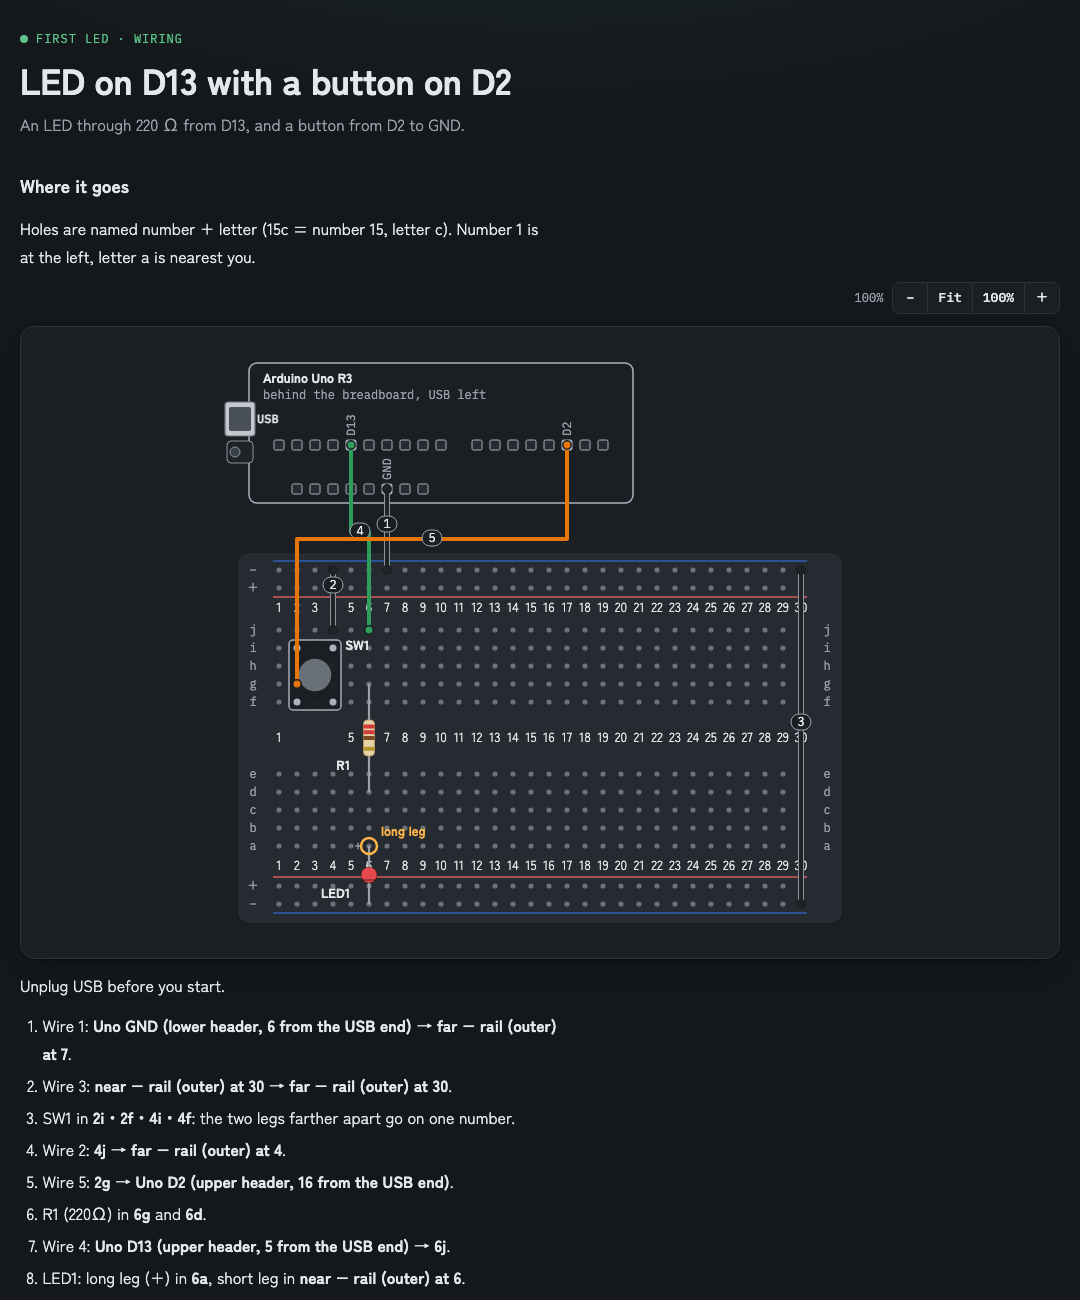
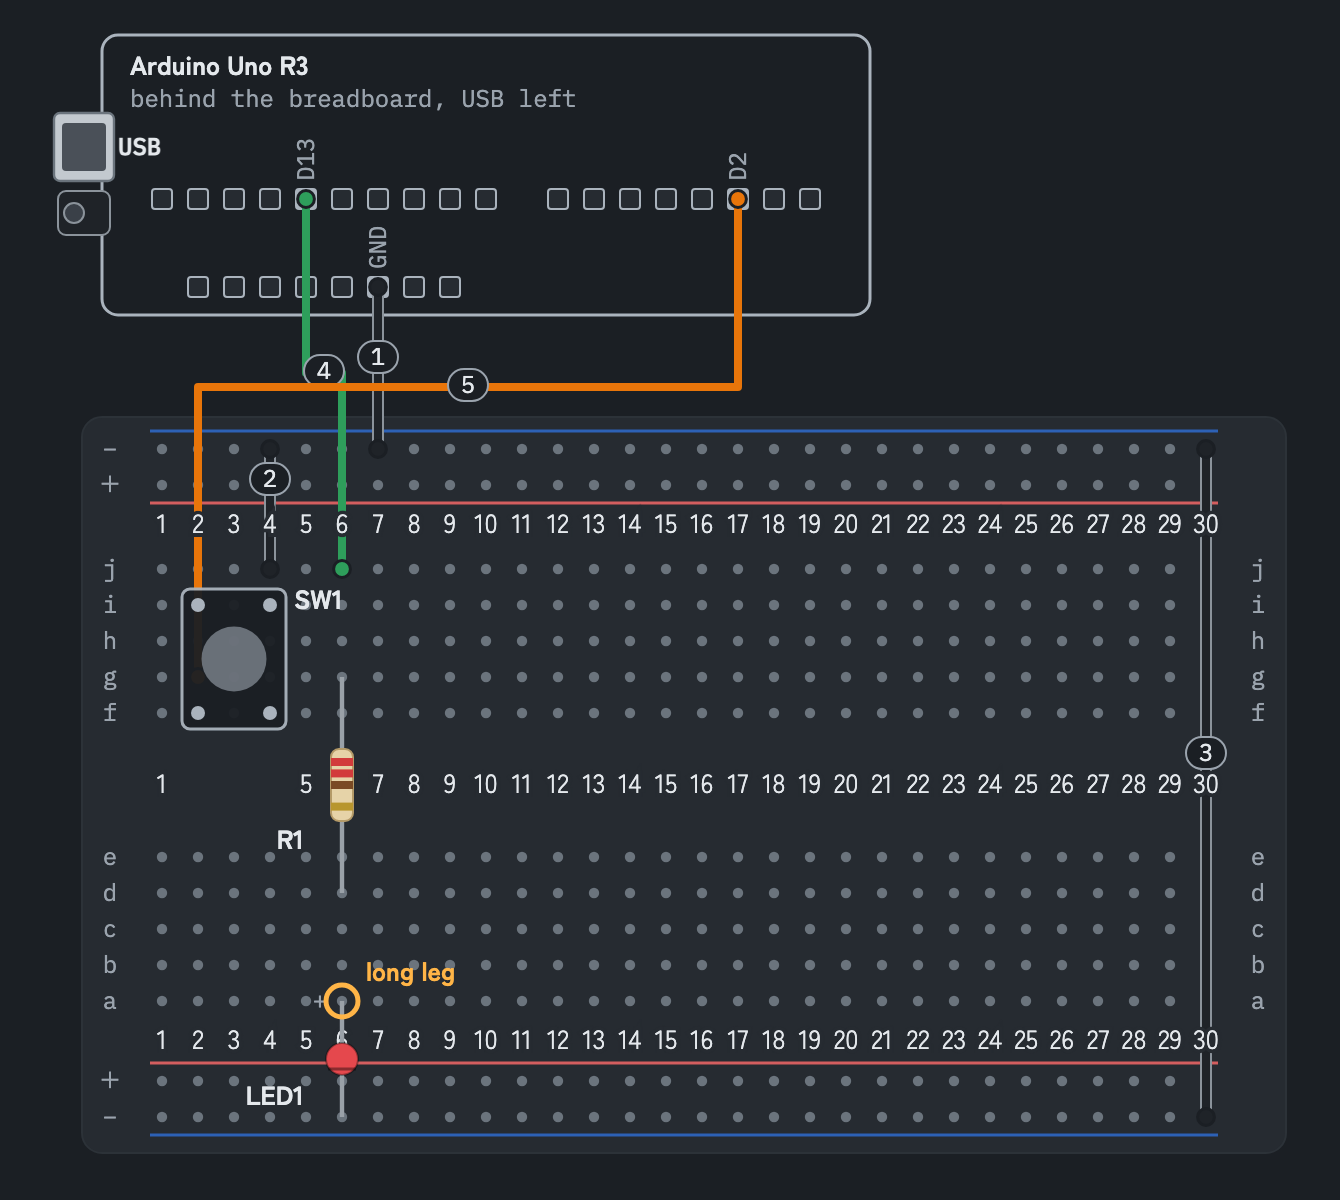
Keep hole numbers readable over wires; sharper README screenshots
Numbers are now drawn above the wires with a rim of board colour, and
parts above the numbers, so a wire running past a number no longer hides
it. The README screenshots show just the drawing, at twice the
resolution.

diff --git a/skills/wiring-guide/breadboard.py b/skills/wiring-guide/breadboard.py
@@ -440,14 +440,18 @@ class Page:
             for n in range(1, b.rows + 1):
                 dots.append(f'<circle cx="{b.x(n)}" cy="{y}" r="2.6"/>')
         out.append(f'<g fill="var(--hole)">{"".join(dots)}</g>')
-        nums = []
+        return "".join(out)
+
+    def svg_numbers(self):
+        b, nums = self.b, []
         for n in range(1, b.rows + 1):
             x = b.x(n)
             nums.append(f'<text x="{x}" y="{b.num_top}">{n}</text><text x="{x}" y="{b.num_bot}">{n}</text>')
             if n not in self.straddled:
                 nums.append(f'<text x="{x}" y="{b.num_mid}">{n}</text>')
-        out.append(f'<g class="m" text-anchor="middle">{"".join(nums)}</g>')
-        return "".join(out)
+        # above the wires, with a rim of board colour, so a wire passing a number does not hide it
+        return f'<g class="m" text-anchor="middle" stroke="var(--board)" stroke-width="4" paint-order="stroke">{"".join(nums)}</g>'
+
 
     def svg_straddlers(self):
         out = []
@@ -809,7 +813,11 @@ class Page:
         # svg
         body = [self.svg_board(), self.svg_boards_off(), self.svg_straddlers()]
         placed = []
-        for it, svg in self.items.items():
+        wires = [kv for kv in self.items.items() if isinstance(kv[1], tuple)]
+        for it, svg in wires + [(None, None)] + [kv for kv in self.items.items() if kv not in wires]:   # wires, numbers, then parts on top
+            if it is None:
+                body.append(self.svg_numbers())
+                continue
             if isinstance(svg, tuple):
                 g, mid, n = svg
                 bx, by = self.badge_spot(mid, placed)

diff --git a/README.md b/README.md
@@ -6,7 +6,7 @@ An agent skill for hardware builds, packaged as a Claude Code plugin. When you a
 
 <picture>
   <source media="(prefers-color-scheme: dark)" srcset="docs/example-dark.png">
-  <img src="docs/example-light.png" alt="A wiring page made from spec.example.json: an Arduino Uno behind a breadboard, wires numbered in the order to place them, an LED with its resistor and a button, then the steps." width="720">
+  <img src="docs/example-light.png" alt="A wiring page made from spec.example.json: an Arduino Uno behind a breadboard, wires numbered in the order to place them, an LED with its resistor and a button." width="720">
 </picture>
 
 ## Install

diff --git a/README.ja.md b/README.ja.md
@@ -6,7 +6,7 @@
 
 <picture>
   <source media="(prefers-color-scheme: dark)" srcset="docs/example-dark.png">
-  <img src="docs/example-light.png" alt="spec.example.json から作った配線ページ。ブレッドボードの奥に Arduino Uno、挿す順に番号を振った線、抵抗つきの LED とボタン、その下に手順。" width="720">
+  <img src="docs/example-light.png" alt="spec.example.json から作った配線ページ。ブレッドボードの奥に Arduino Uno、挿す順に番号を振った線、抵抗つきの LED とボタン。" width="720">
 </picture>
 
 ## 入れ方
